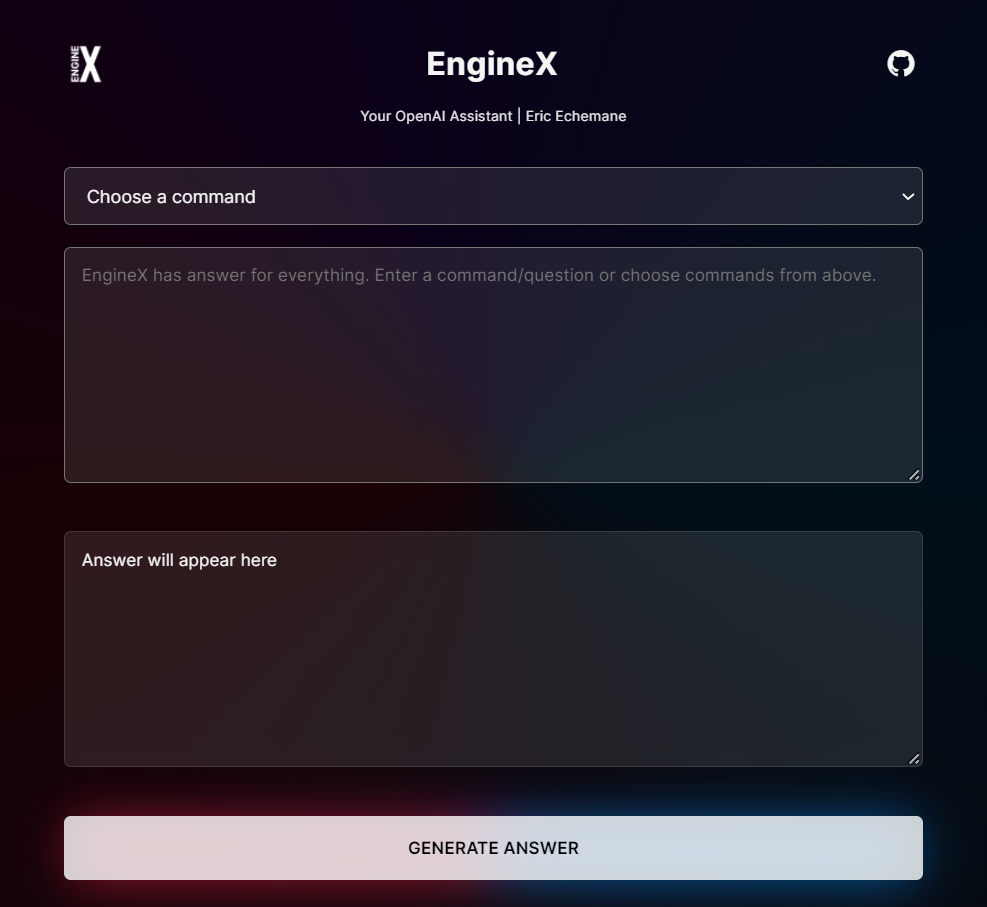
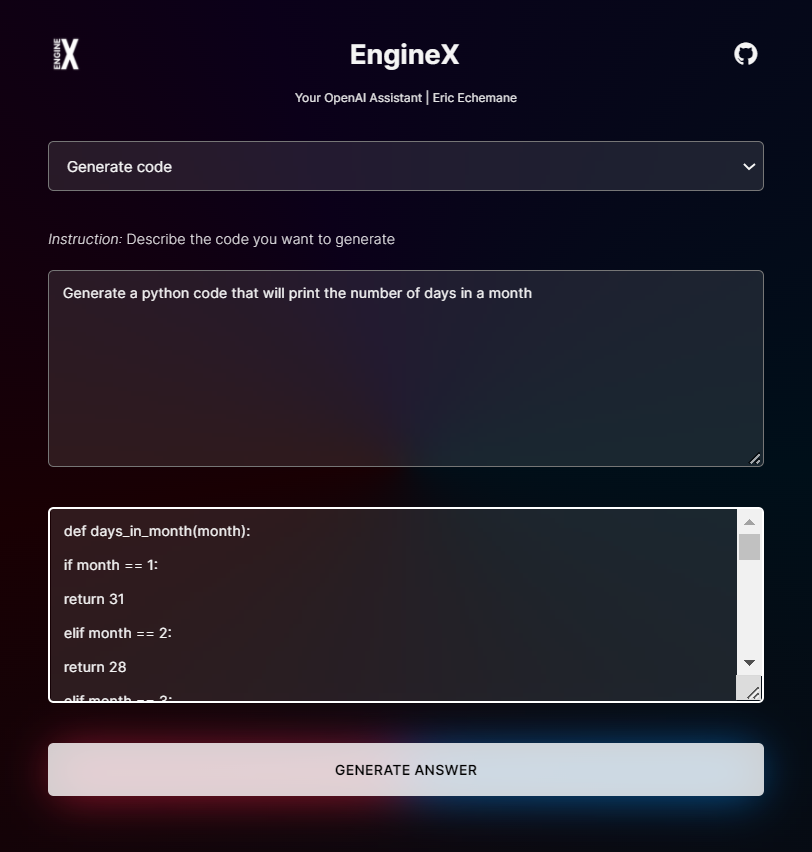
benner updated

diff --git a/src/lib/commands.js b/src/lib/commands.js
@@ -5,6 +5,11 @@ const commands = [
         command: "Who was president of the United States in 1955?",
     },
     {
+        command_name: "Generate code",
+        instruction: "Describe the code you want to generate",
+        command: "Generate a python code that will print the number of days in a month",
+    },
+    {
         command_name: "Grammar correction",
         instruction: "Replace the sentence on the 3rd line.",
         command: "Correct this to standard English:\n\nI hungry on today",
